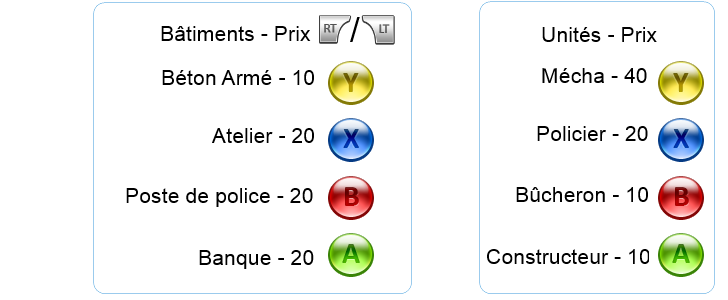
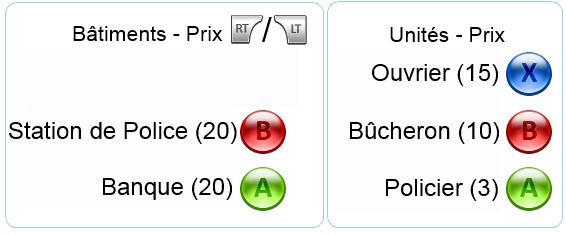
[HUD] Cost huds redone.

Changed region(s): [[0.0, 0.0, 1.0, 0.9872], [0.6908, 0.0897, 0.9011, 0.1795], [0.6007, 0.9573, 0.9912, 0.9872]]

diff --git a/public/js/HUD.js b/public/js/HUD.js
@@ -4,20 +4,20 @@ function HUD(player)
 
 	natureTexture = THREE.ImageUtils.loadTexture('data/natureHUD.png')
 	natureMaterial = new THREE.MeshLambertMaterial( { map: natureTexture } );
-	natureGeometry = new THREE.PlaneGeometry(0.6, 0.25),
+	natureGeometry = new THREE.PlaneGeometry(0.75, 0.3),
 	natureMaterial.transparent = true
 	this.natureHUD = new THREE.Mesh( natureGeometry,  natureMaterial )
-	this.natureHUD.translateX(-0.7)
-	this.natureHUD.translateY(0.40)
+	this.natureHUD.translateX(-0.5)
+	this.natureHUD.translateY(0.37)
 	this.scene.add(this.natureHUD)
 
 	newYorkTexture = THREE.ImageUtils.loadTexture('data/newYorkHUD.png')
 	newYorkMaterial = new THREE.MeshLambertMaterial( { map: newYorkTexture } );
-	newYorkGeometry = new THREE.PlaneGeometry(0.6, 0.25),
+	newYorkGeometry = new THREE.PlaneGeometry(0.75, 0.3),
 	newYorkMaterial.transparent = true
 	this.newYorkHUD = new THREE.Mesh( newYorkGeometry,  newYorkMaterial )
-	this.newYorkHUD.translateX(0.7)
-	this.newYorkHUD.translateY(0.40)
+	this.newYorkHUD.translateX(0.5)
+	this.newYorkHUD.translateY(0.37)
 	this.scene.add(this.newYorkHUD)
 	
 	this.buildMonitor = new BuildMonitor()
@@ -28,7 +28,6 @@ HUD.prototype.updateMana = function(type, value) {
 }
 
 HUD.prototype.refreshBuildMonitor = function(index, queue){
-	console.log("refresh build-monitor")
 	this.buildMonitor.refreshQueue(index, queue)
 	for (var input in this.buildMonitor.displayedQueues["lane"+index].nature){
 		document.querySelector("#nature-build-queue ."+input+" .lane"+index+" .size")

diff --git a/public/js/Config.js b/public/js/Config.js
@@ -28,14 +28,14 @@ Game.config = {
     	mapping : {
     		buildings: {
 	    		'input0' : 'manaTree',
-	    		// 'input1' : 'protectorTree',
-	    		'input2' : 'rootTree',
+	    		'input1' : 'rootTree',
+	    		// 'input2' : 'protectorTree',
 	    		// 'input3' : 'brambles'
 	    	},
 	    	units: {
-	    		// 'input0' : 'sapCarrier',
-	    		'input1' : 'wolf',
-	    		'input2' : 'bear',
+	    		'input0' : 'wolf',
+	    		'input1' : 'bear',
+	    		// 'input2' : 'sapCarrier',
 	    		// 'input3' : 'ent'
 	    	}
     	}
@@ -54,9 +54,9 @@ Game.config = {
 	    		// 'input3' : 'armedConcrete'
 	    	},
 	    	units: {
-	    		'input0' : 'builder',
+	    		'input0' : 'policeman',
 	    		'input1' : 'lumberjack',
-	    		'input2' : 'policeman',
+	    		'input2' : 'builder',
 	    		// 'input3' : 'mecha'
 	    	}
     	}
@@ -116,7 +116,7 @@ Game.config = {
 			cooldown: 1,
 			hp: 5,
 			speed: 0.2,
-			cost: 20,
+			cost: 15,
 			time: 5,
 			captureSpeed: 0.1,
 			modelFile:"data/builder.js",
@@ -210,8 +210,8 @@ Game.config = {
 		policeStation: {
 			hp: 100,
 			cost: 20,
-			time: 2,
-			policemansDelay: 2,
+			time: 20,
+			policemansDelay: 10,
 			modelFile : "data/police_station.js"
 		},
 		// Atelier
